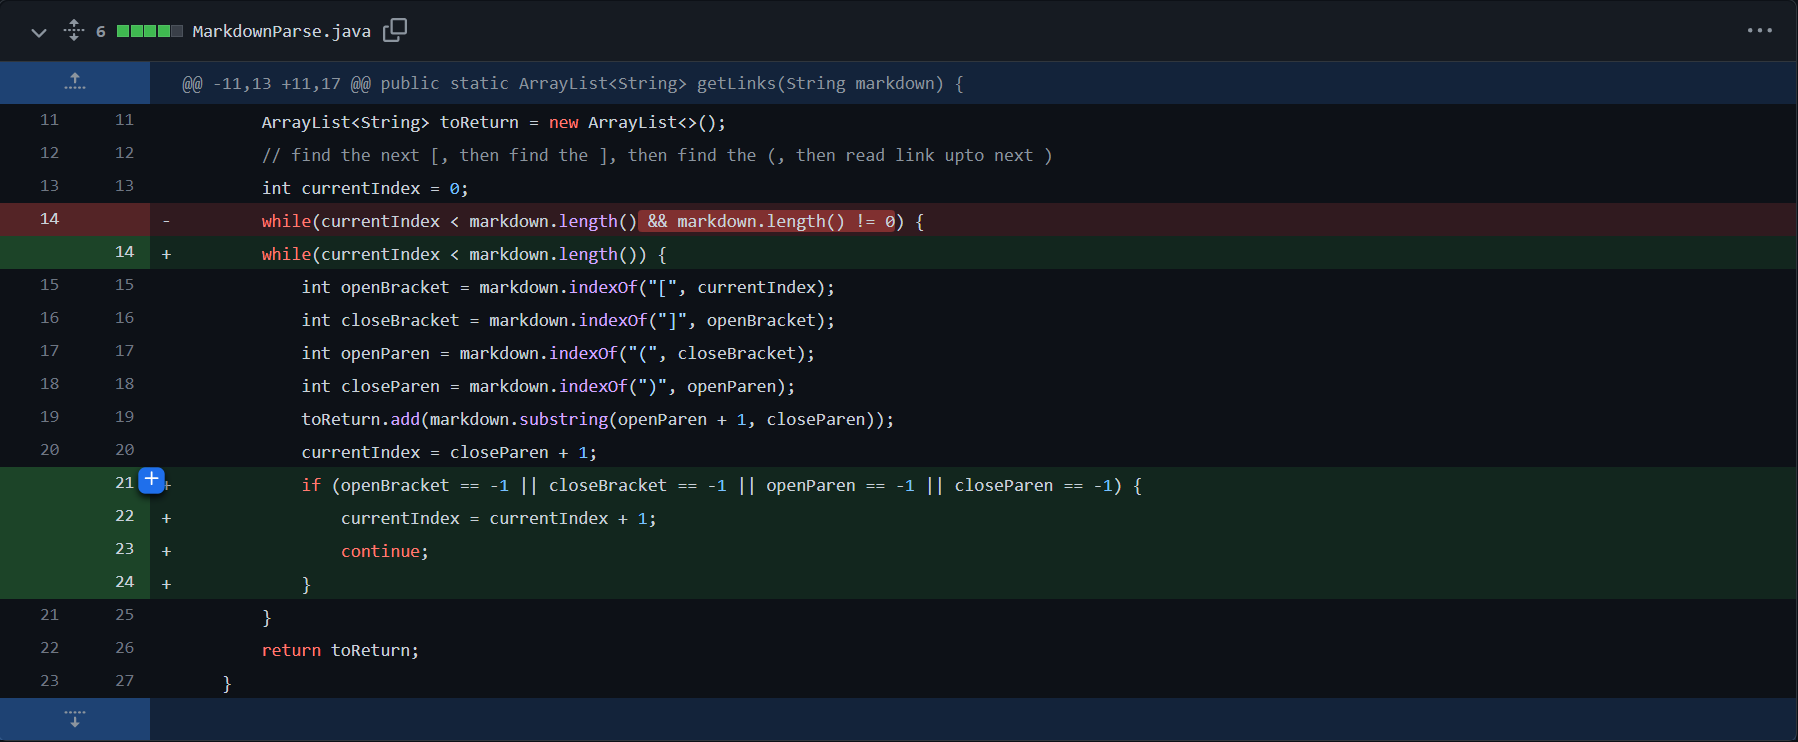
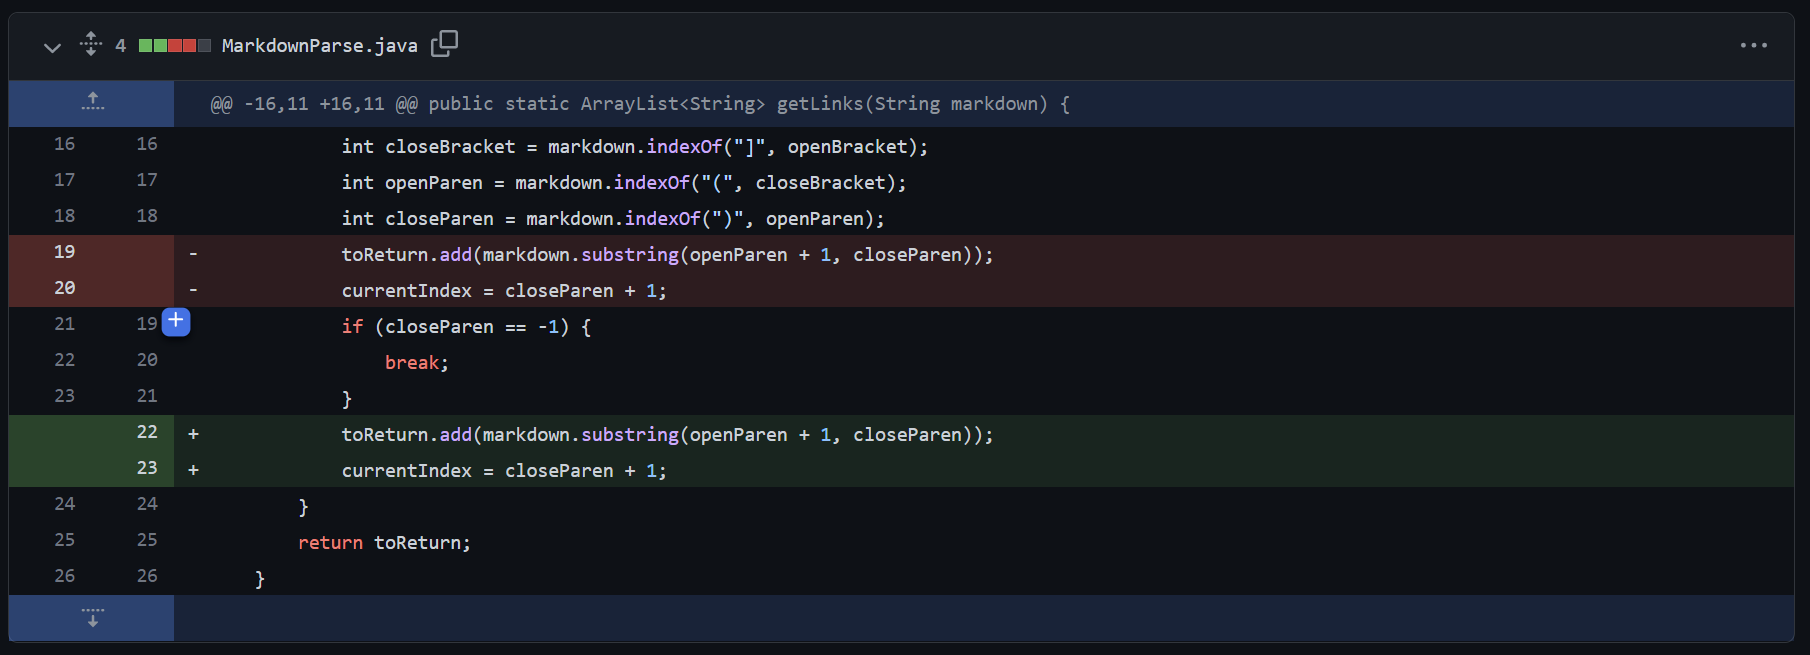
update

diff --git a/lab-report-2-week-4.md b/lab-report-2-week-4.md
@@ -17,13 +17,13 @@ The change I made here doesn't help at all to the bug because the length of the 
 ![image](report2/commit-2.png)
 The above shows the second change to MarkdownParse.java.
 
-[This is the link to the test file I use for this change in MarkdownParse.java, we are using the same test file.](https://github.com/yeh0903/markdown-parser/blob/54edd708e9da81ef3dac6e86cc5b693c21b0d66f/test-file.md)
+[This is the link to the test file I use for this change in MarkdownParse.java.](https://github.com/yeh0903/markdown-parser/blob/main/test-file3.md)
 
 ![symptom](report2/symptom-2.png)
 
 The above shows the symptom I encountered when I tried to run my code in terminal.
 
-The bug here is that when the program did not find `closeParen` in the string, it will return -1 (storing it in `closeParen`). The current index will then be 0, and the program will go into infinite loop, causing the symptom of system running out of memory. My conditional statement in the end did not fix this because before the conditional statement is ran, the current index is already being changed to 0, causing the infinite loop.
+The bug here is that when the program did not find `closeParen` in the string, it will return -1 (storing it in `closeParen`). And when the substring is passed with the value -1, it will throw an indexoutofbound exception.
 
 ---
 
@@ -31,10 +31,8 @@ The bug here is that when the program did not find `closeParen` in the string, i
 ![image](report2/commit-3.png)
 The above shows the third change to MarkdownParse.java.
 
-[This is the link to the test file I use for this change in MarkdownParse.java, we are using the same test file.](https://github.com/yeh0903/markdown-parser/blob/54edd708e9da81ef3dac6e86cc5b693c21b0d66f/test-file.md)
+[This is the link to the test file I use for this change in MarkdownParse.java.](https://github.com/yeh0903/markdown-parser/blob/main/test-file7.md)
 
 ![symptom](report2/symptom-3.png)
 
-The above shows that the bug is successfully fixed. There are no sympotoms.
-
-The bug in previous test was that when the program did not find `closeParen` in the string, it will return -1 (storing it in `closeParen`). The current index will then be 0, and the program will go into infinite loop, causing the symptom of system running out of memory. My conditional statement added now can prevent this from happening. My code recognize if any of the bracket or parentheses are not found, then I will strictly increase the currrent index by 1 and continue the loop. This can prevent the code from crashing into infinite loop.
+The bug in here was that when the program did not find `openParen` in the string, it will return -1 (storing it in `openParen`). The program cannot find an openParen to grab the content, and the program will be keep looking for the openParen infinitely. So, the program will go into infinite loop, causing the symptom of system running out of memory. My conditional statement added now can prevent this from happening. My code recognize if any of the bracket or parentheses are not found, then I will strictly increase the currrent index by 1 and continue the loop. This can prevent the code from crashing into infinite loop.
